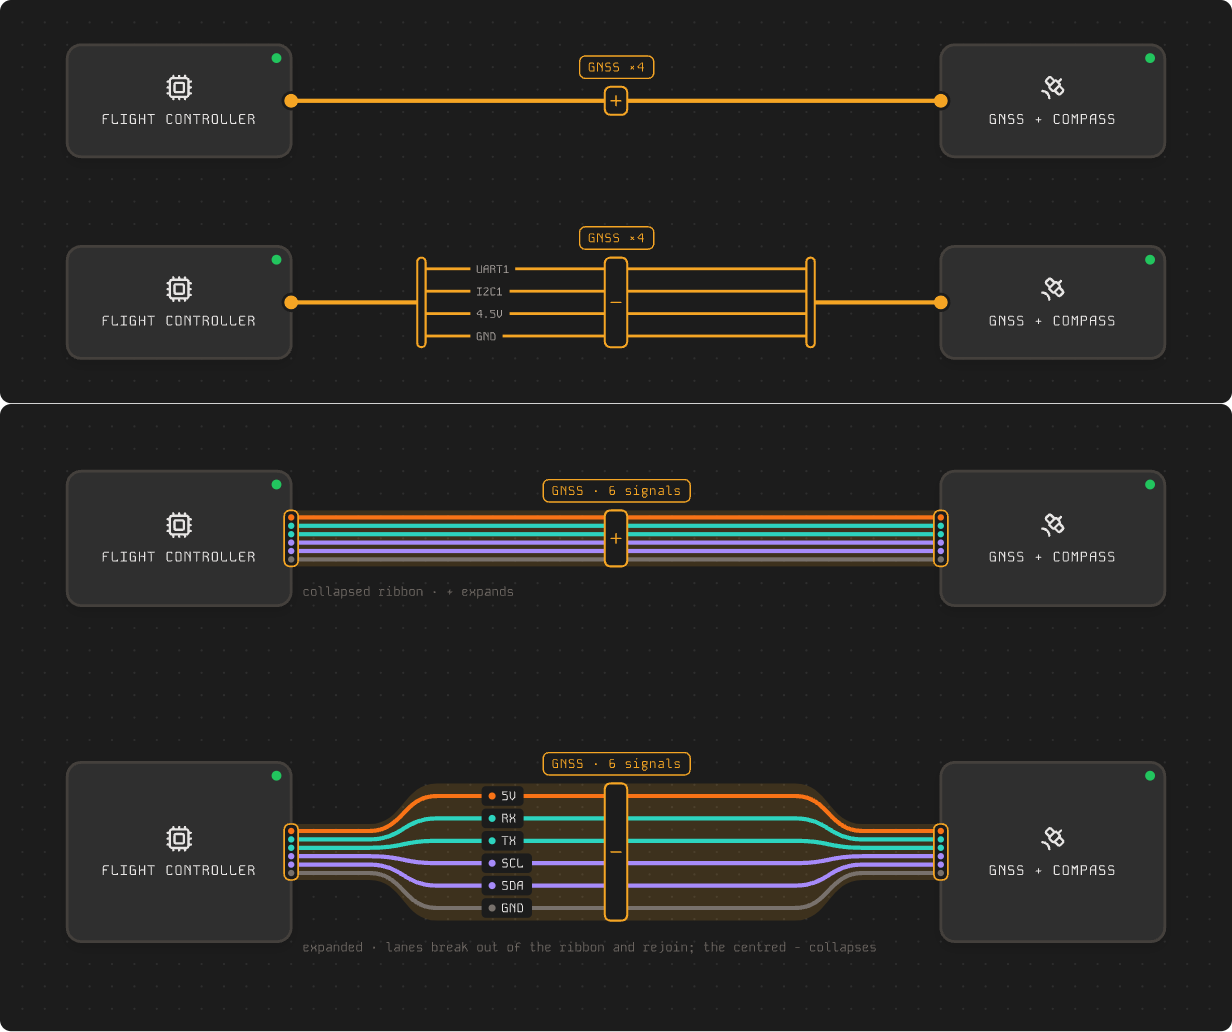
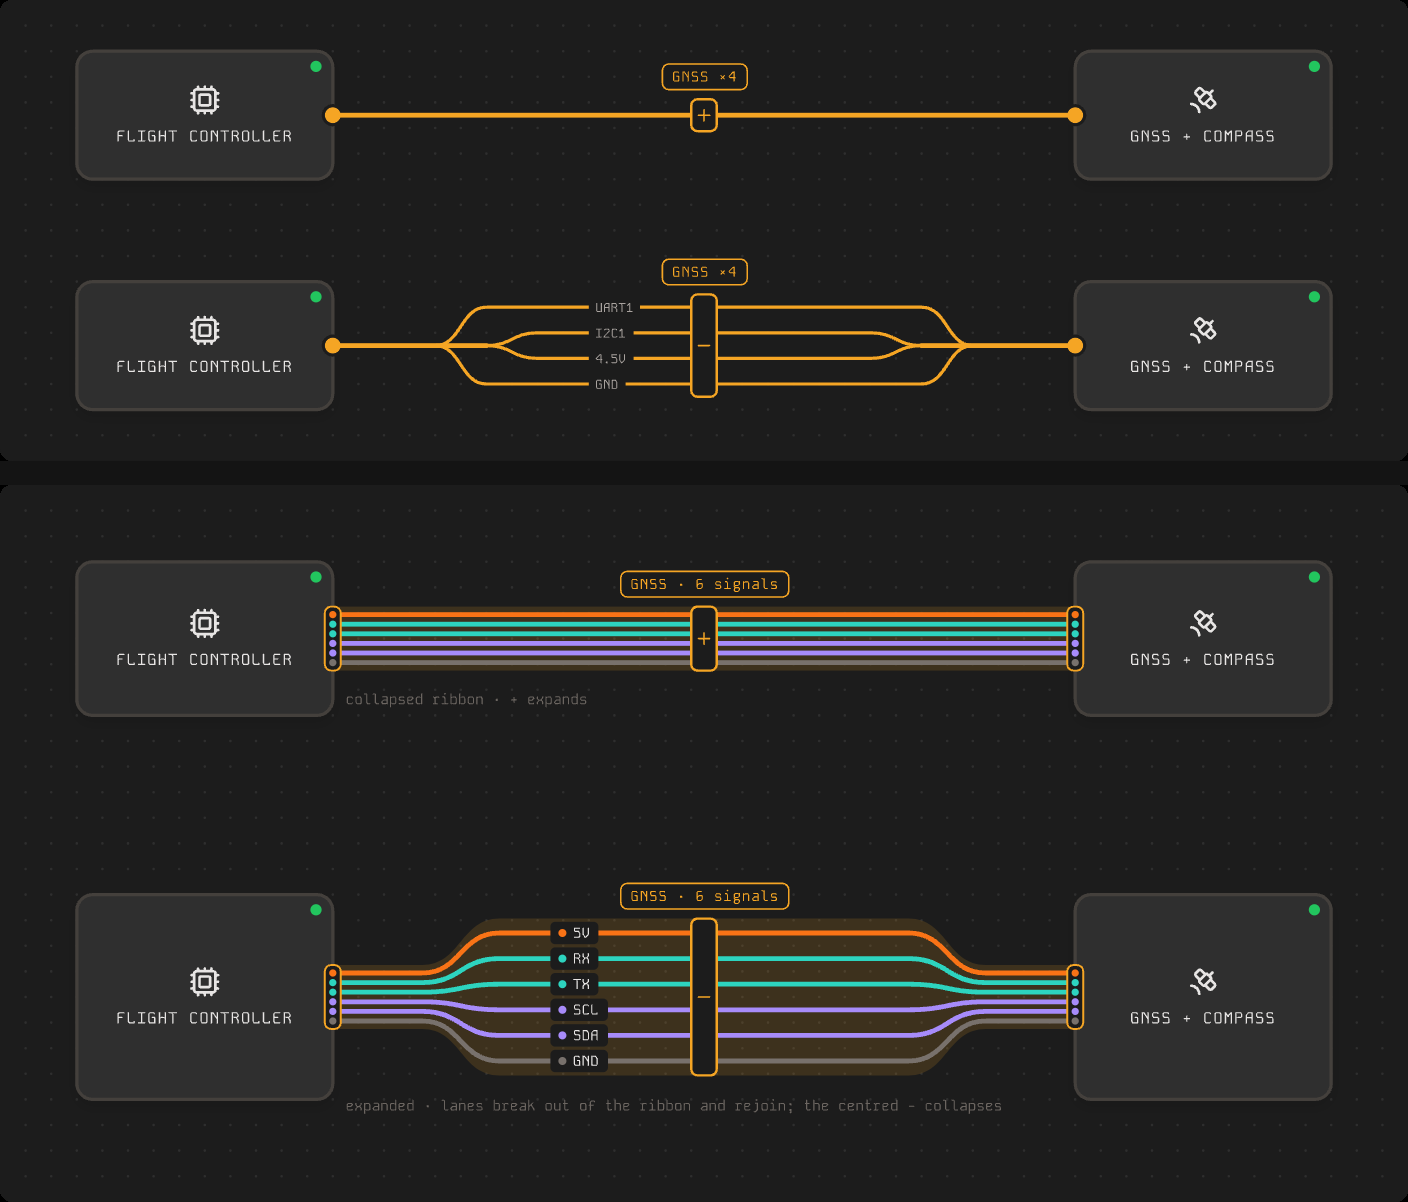
Board 09: basic bundle lanes flow out of the line, outer first (PB-803)
Claude-Session: https://claude.ai/code/session_01QxgTD8LZbEvxeVRDjmKCws

diff --git a/docs/design-direction.md b/docs/design-direction.md
@@ -158,9 +158,11 @@ in the header. Its detailed design is deferred.
   taps), with a dotted outline and a light fill. The harness name sits outside
   it as a small tab; lengths, gauges, members and hardware lists belong in the
   inspector, not on the canvas.
-- **Bundles, basic mode.** One line at each module (it is one link). The
-  expanded form breaks out into labelled lanes between two breakout bars in the
-  middle of the run and rejoins before the far module.
+- **Bundles, basic mode.** One line at each module (it is one link). Expanded,
+  the signals flow out of that line into labelled lanes in stages: the
+  outermost pair branches first and the innermost pair last (and in reverse
+  order where they rejoin), so the lanes fan out and back without bars or
+  crossings.
 - **Bundles, detailed mode (ribbon).** Every signal end to end at a tight
   pitch in its own colour, over a soft band in the link's colour. The ends are
   slim handles whose dots are only slightly wider than the lines, and each line
